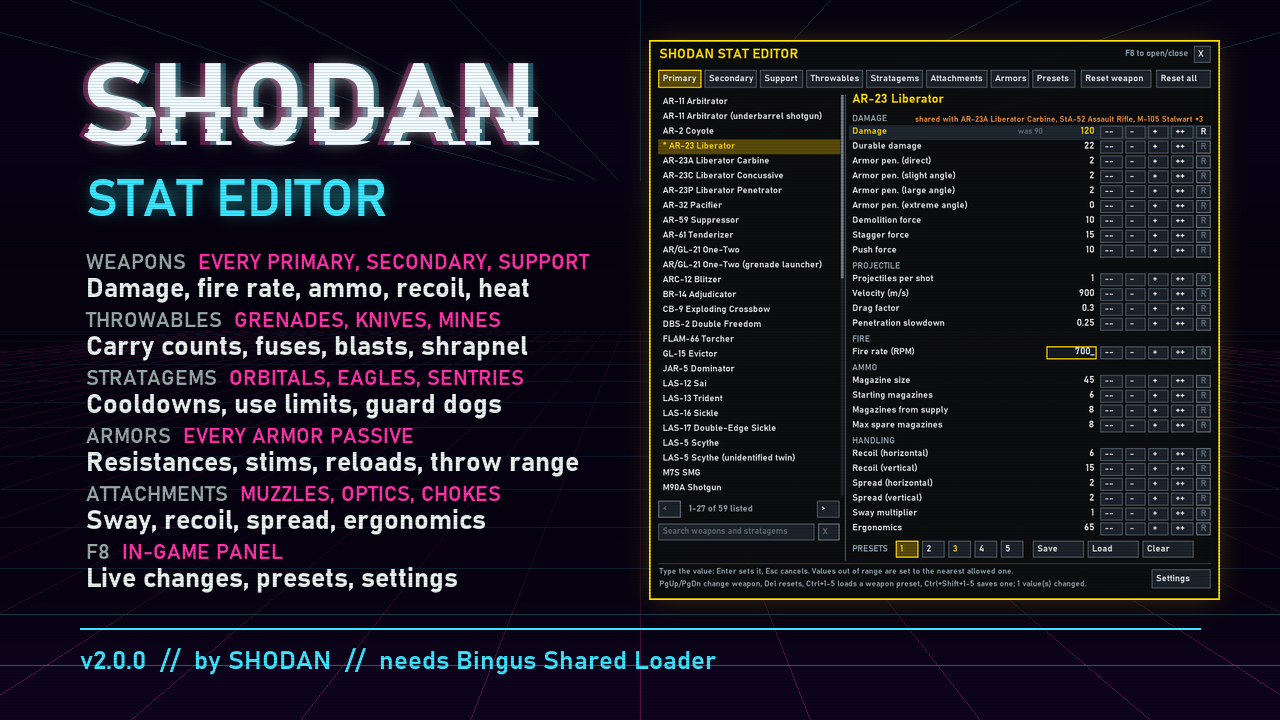
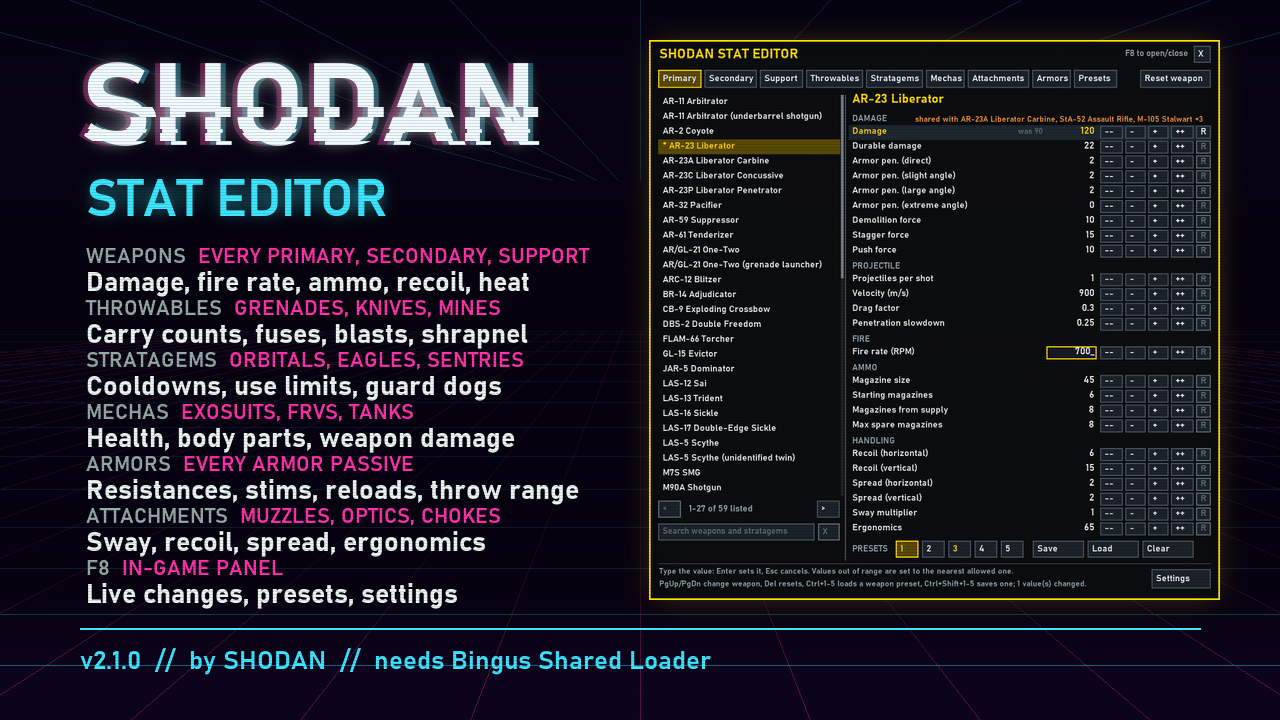
v2.1.0: Mechas tab, ammunition types, custom muzzle brakes; new feature image

Changed region(s): [[0.0625, 0.3361, 0.4688, 0.8556], [0.0938, 0.8861, 0.5625, 0.9472], [0.7188, 0.0917, 0.9375, 0.1222]]

diff --git a/README.md b/README.md
@@ -94,7 +94,7 @@ Multipliers show as the game stores them: 1 is no change, 0.5 damage taken is 50
 ## Install
 
 1. Install **Bingus Shared Loader** (v15 or newer).
-2. Download `SHODAN-Stat-Editor-v2.0.0.zip` from the [releases page](../../releases/latest).
+2. Download `SHODAN-Stat-Editor-v2.1.0.zip` from the [releases page](../../releases/latest).
 3. Install the zip with your Helldivers 2 mod manager, like any other mod package.
 
 ## Use
